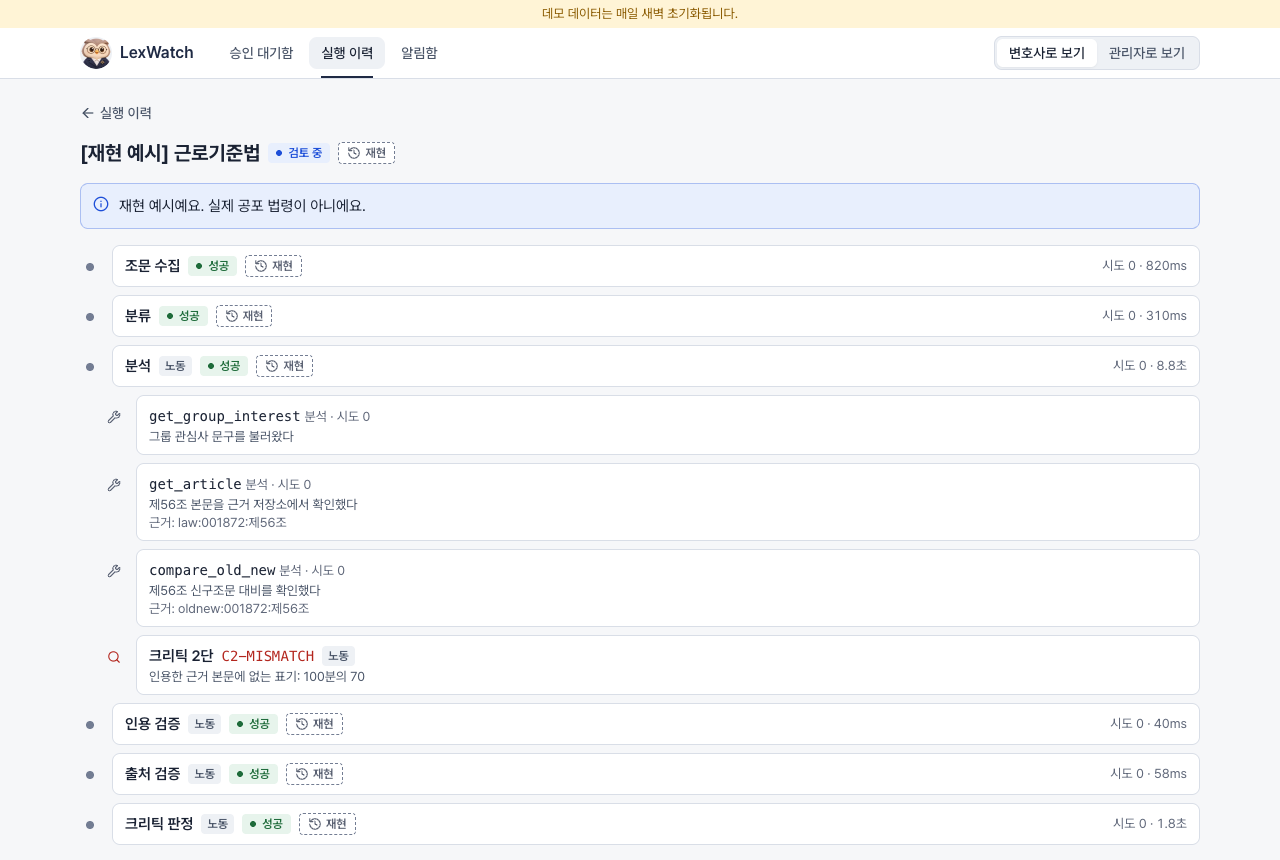
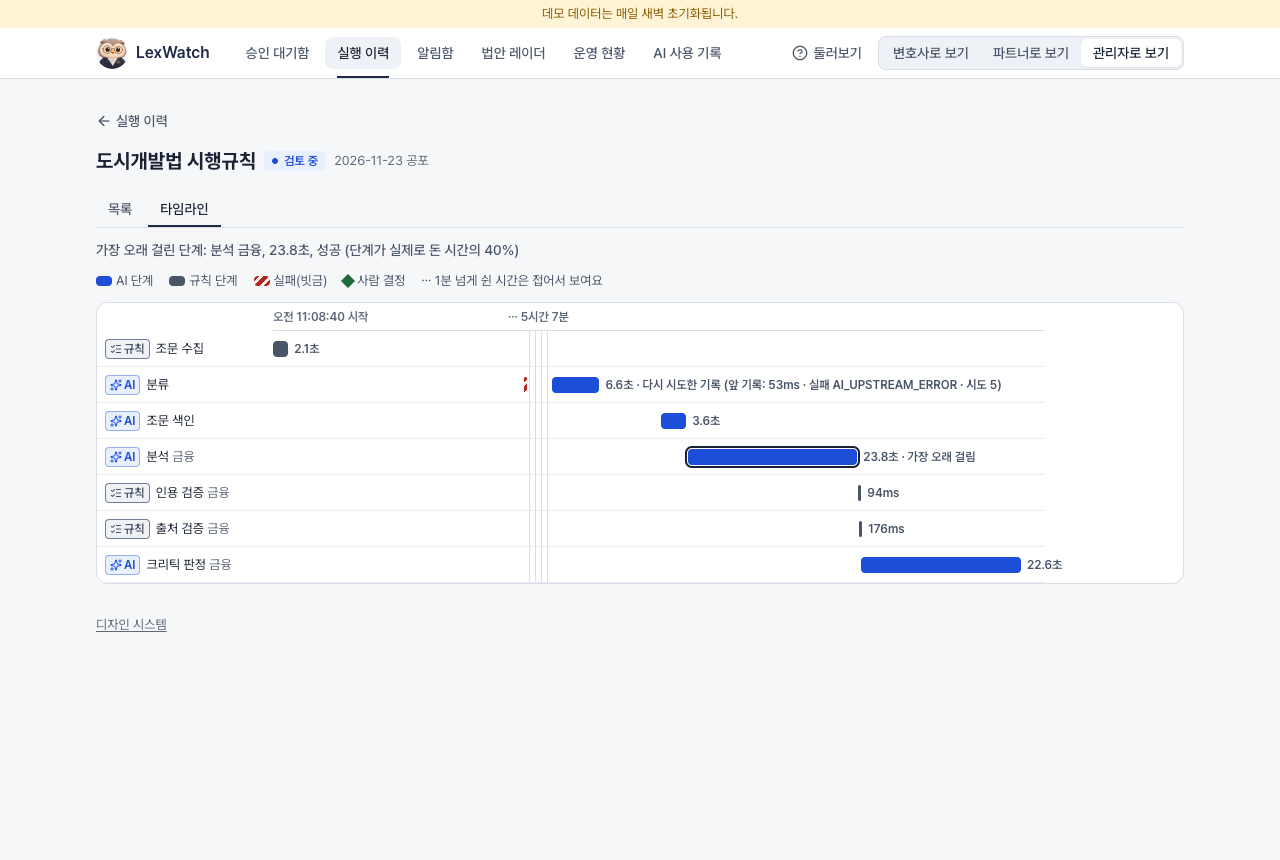
docs(readme): 새 기능에 맞춰 스크린샷과 가이드, 운영 표, 테스트 수치를 고친다
- 스크린샷 7장을 지금 화면으로 다시 찍고 AI 라벨, 법안 레이더, 운영 현황, AI 사용 기록 4장을 더한다
- 3분 가이드에 과정 띠와 AI 라벨, 타임라인 탭, 운영 현황을 넣는다
- collect 워크플로의 bills 작업, 인프라 외부 API(국회, Cloudflare, Groq)를 적는다
- 테스트 수치를 CI 기준으로 고친다(AI 122, 화면 192, .NET 305)
- 하지 않은 것에 시행일 캘린더, AI 표시 확대, 호출 단위 기록을 적는다

Claude-Session: https://claude.ai/code/session_01KDP3o71hzzuWY83vaoXenw

diff --git a/README.md b/README.md
@@ -42,7 +42,7 @@ https://github.com/user-attachments/assets/b656d181-8d5b-4829-a8c5-12dff8b6b316
 1. 매일 07:00에 국가법령정보센터에서 공포된 개정을 가져와 노동, 개인정보, 금융 그룹별로 나눕니다.
 2. 법제처가 표시한 변경 부분을 그대로 받아 신구조문에서 바뀐 글자만 강조합니다.
 3. 초안의 모든 문장은 근거를 인용하고, 인용을 누르면 근거 원문이 바로 뜹니다. 크리틱 3단이 인용, 숫자와 날짜, 과잉해석을 검사해 걸린 문장에 사유를 붙입니다.
-4. 각 단계를 NVIDIA 모델이 처리했는지, 대체 구현이 처리했는지, 녹화한 데모인지 라벨로 숨김없이 보여 줍니다.
+4. 각 단계를 NVIDIA 모델이 처리했는지, 대체 구현이 처리했는지, 녹화한 데모인지 라벨로 숨김없이 보여 줍니다. 초안마다 어느 단계가 AI이고 어느 단계가 규칙과 사람인지 과정 띠로 보입니다.
 5. 승인 전에는 어느 그룹으로 안내가 나가는지 한 번 더 확인합니다.
 
 <br>
@@ -73,13 +73,19 @@ LexWatch는 사건을 처리하는 본업이 아니라 **법령 개정을 지켜
 | 승인 대기함 | 초안 상세 |
 | :---: | :---: |
 | ![승인 대기함](docs/screenshots/01-approval-queue.png) | ![초안 상세](docs/screenshots/02-draft-detail.png) |
-| 실무그룹별 초안을 모아 크리틱 적발이 있는 초안을 먼저 보여 줍니다. 신뢰도는 숫자와 막대로 봅니다. | 신구조문 대조와 문장별 근거가 달린 초안, 크리틱 사유, 검토 보조 채팅이 한 화면에 있습니다. |
-| **근거 바로 보기** | **승인 확인** |
-| ![인용 근거 팝오버](docs/screenshots/05-citation-popover.png) | ![승인 확인 대화상자](docs/screenshots/06-approve-dialog.png) |
-| 인용 칩을 누르면 근거 제목과 본문 앞부분, 원문 링크가 뜹니다. 근거가 없는 인용은 경고 모양이 됩니다. | 승인과 수정 후 승인은 어느 그룹 알림함으로 발송되는지 확인한 뒤에 진행됩니다. |
-| **실행 이력** | **알림함** |
-| ![실행 타임라인](docs/screenshots/03-run-timeline.png) | ![알림함](docs/screenshots/04-demo-inbox.png) |
-| 단계별 시간, 시도 횟수, 에이전트 도구 호출, 크리틱 판정, 승인 기록이 시간순으로 이어집니다. 관리자는 실패한 단계를 다시 실행합니다. | 승인된 그룹의 안내문이 도착합니다. 외부로 나가는 실제 발송은 없습니다. |
+| 실무그룹별 초안을 모아 크리틱 적발이 있는 초안을 먼저 보여 줍니다. 그룹 관련성은 숫자와 막대로 봅니다. | 맨 위에 "이 초안이 만들어진 과정"을 AI, 규칙, 사람으로 나눠 보이고, 문장마다 근거와 크리틱 사유가 붙습니다. |
+| **근거 바로 보기** | **AI 라벨** |
+| ![인용 근거 팝오버](docs/screenshots/05-citation-popover.png) | ![AI 라벨 설명](docs/screenshots/08-ai-label.png) |
+| 인용 칩을 누르면 근거 제목과 본문 앞부분, 원문 링크가 뜹니다. 근거가 없는 인용은 경고 모양이 됩니다. | AI가 만든 초안, 판정, 답변에 붙은 라벨을 누르면 쓴 모델, AI에 보낸 근거 수, 한계가 뜹니다. |
+| **승인 확인** | **알림함** |
+| ![승인 확인 대화상자](docs/screenshots/06-approve-dialog.png) | ![알림함](docs/screenshots/04-demo-inbox.png) |
+| 승인과 수정 후 승인은 어느 그룹 알림함으로 발송되는지 확인한 뒤에 진행됩니다. | 승인된 그룹의 안내문이 도착합니다. 외부로 나가는 실제 발송은 없습니다. |
+| **실행 타임라인** | **운영 현황** |
+| ![실행 타임라인](docs/screenshots/03-run-timeline.png) | ![운영 현황](docs/screenshots/10-ops.png) |
+| 단계마다 시작 시각과 소요 시간을 막대로 그립니다. 실패와 오류 코드, 다시 시도한 기록, 가장 오래 걸린 단계가 보이고, 몇 시간 쉰 구간은 접습니다. | 관리자는 실행 수, 다시 시도한 끝의 단계 실패율, AI 공급자 비율, 적발 있는 초안 비율, 결정 대기를 한 화면에서 봅니다. |
+| **법안 레이더** | **AI 사용 기록** |
+| ![법안 레이더](docs/screenshots/09-bill-radar.png) | ![AI 사용 기록](docs/screenshots/11-ai-usage.png) |
+| 실무그룹이 지켜보는 법률의 국회 발의 개정안이 접수부터 의결까지 어디에 있는지 보입니다. | 검토 보조 요청마다 결과, 모델, 소요 시간, 가린 민감정보 종류와 건수만 남깁니다. 질문과 답변은 남기지 않습니다. |
 
 ### 3분 사용 가이드
 
@@ -88,11 +94,12 @@ LexWatch는 사건을 처리하는 본업이 아니라 **법령 개정을 지켜
 로그인 없이 오른쪽 위에서 "변호사로 보기", "파트너로 보기", "관리자로 보기"를 고릅니다. 데모 데이터는 매일 04:00에 초기화되며, 재현 예시와 채팅 할당량만 다시 만들고 실제 수집 결과는 그대로 둡니다.
 
 1. **승인 대기함**: `재현` 라벨이 붙은 항목은 녹화를 다시 재생한 예시이고 법령 이름 앞에 `[재현 예시]`가 붙습니다.
-2. **초안 상세**: 노동 그룹 예시에 숫자 불일치(크리틱 2단) 적발 사례가 있습니다. 검토 보조에 근거에 관해 물으면 근거 안에서만 답하고, 근거 밖 질문은 거절합니다.
-3. **실행 이력**: 실행 하나를 열면 단계마다 출처 라벨이 있습니다.
+2. **초안 상세**: 맨 위 "이 초안이 만들어진 과정"에서 어느 단계가 AI이고 어느 단계가 규칙인지 봅니다. "AI 초안", "AI 판정" 라벨을 누르면 쓴 모델과 한계가 뜹니다. 검토 보조에 근거에 관해 물으면 근거 안에서만 답하고, 근거 밖 질문은 거절합니다.
+3. **실행 이력**: 실행 하나를 열면 단계마다 출처 라벨이 있고, "타임라인" 탭에서 단계별 소요 시간과 실패, 다시 시도한 기록을 막대로 봅니다.
 4. **알림함**: 변호사로 승인하면 해당 그룹의 안내문이 생깁니다. 노동 그룹 예시처럼 적발을 확인하고 승인한 초안은 "파트너로 보기"에서 최종 승인해야 안내문이 생깁니다.
 5. **법안 레이더**: 노동, 개인정보, 금융 그룹이 지켜보는 법률의 국회 발의 개정안이 접수부터 의결까지 어디에 있는지 보입니다. 공포되면 승인 대기함의 검토로 이어집니다.
-6. **AI 사용 기록**: 검토 보조에 `한빛전자 대표 900101-1234567`처럼 물으면 AI로 보내기 전에 가려지고, "관리자로 보기"의 AI 사용 기록에 가린 종류와 건수만 남습니다.
+6. **운영 현황**: "관리자로 보기"에서 최근 7, 14, 30일의 실행 수, 단계 실패율, AI 공급자 비율, 결정 대기를 봅니다.
+7. **AI 사용 기록**: 검토 보조에 `한빛전자 대표 900101-1234567`처럼 물으면 AI로 보내기 전에 가려지고, "관리자로 보기"의 AI 사용 기록에 가린 종류와 건수만 남습니다.
 
 <br>
 
@@ -184,7 +191,7 @@ LexWatch는 사건을 처리하는 본업이 아니라 **법령 개정을 지켜
 | AI 서비스 (`lexwatch-ai`) | Render free, Singapore, Docker | 분류, 영향 분석 에이전트, 크리틱 3단, 검토 보조 |
 | API (`lexwatch-api`) | Render free, Singapore, Docker | Workflow 엔진, 크리틱 1단과 2단, 승인과 알림 |
 | DB | Supabase PostgreSQL + pgvector, ap-southeast-1 | 세션 풀러로 연결 |
-| 외부 | 국가법령정보센터 Open API, NVIDIA NIM | 법령 수집, 모델 호출 |
+| 외부 | 국가법령정보센터 Open API, 국회 열린국회정보 API, NVIDIA NIM, Cloudflare Workers AI, Groq | 법령 수집, 국회 발의 법안 수집, 모델 호출(앞 공급자가 실패하면 다음으로) |
 
 <br>
 
@@ -202,7 +209,7 @@ LexWatch는 사건을 처리하는 본업이 아니라 **법령 개정을 지켜
 | 워크플로 | 시점 | 하는 일 |
 | --- | --- | --- |
 | `ci` | push, PR | 위 다섯 검사. `main` push에서 모두 통과하면 API 배포와 확인 |
-| `collect` | 매일 07:00 KST 예약(GitHub 예약 실행은 몇 시간 늦게 시작되기도 함) | 잠든 API와 AI 서비스를 깨우고(`POST /jobs/wake-ai`) `POST /jobs/collect`로 법령 수집. 수집이 만든 실행이 끝날 때까지 감시하고, 실패하거나 15분 안에 끝나지 않으면 잡을 실패로 끝낸다 |
+| `collect` | 매일 07:00 KST 예약(GitHub 예약 실행은 몇 시간 늦게 시작되기도 함) | 두 작업이 따로 돈다. `collect` 작업은 잠든 API와 AI 서비스를 깨우고(`POST /jobs/wake-ai`) `POST /jobs/collect`로 법령을 수집한 뒤, 수집이 만든 실행이 끝날 때까지 감시하고 실패하거나 15분 안에 끝나지 않으면 잡을 실패로 끝낸다. `bills` 작업은 `POST /jobs/collect-bills`로 국회 발의 법안을 모은다(서버 120초 상한, 다시 시도하지 않음) |
 | `reset-demo` | 매일 04:00 KST | `POST /jobs/reset-demo`로 재현 예시와 채팅 할당량 재생성 |
 
 토큰 교체, 시크릿 준비, 수동 배포 절차는 [배포 런북](docs/deploy.md)에 있습니다.
@@ -238,6 +245,8 @@ LexWatch는 사건을 처리하는 본업이 아니라 **법령 개정을 지켜
 
 - **실행 타임라인**: 실행 상세의 "타임라인" 탭은 단계마다 시작 시각과 소요 시간으로 가로 막대를 그립니다(Temporal 타임라인, Langfuse 워터폴 참고). AI 단계와 규칙 단계를 색과 배지로 나누고, 실패는 빗금과 오류 코드로, 재시도는 "시도 N"으로 보입니다. 1분 넘게 쉰 구간은 접어서 몇 시간 뒤의 다시 실행도 한 화면에 들어옵니다.
 - **운영 현황**(관리자): 최근 7, 14, 30일의 실행 수, 다시 시도한 끝의 단계 최종 실패율, 최종 공급자 기준 AI 처리와 규칙 대체, 적발 있는 초안 비율, 결정 대기를 한 화면에 둡니다. 표본이 작은 데모 데이터라 모든 비율과 소요 시간 옆에 분모와 표본 수를 적습니다.
+
+<br>
 
 ## 🔍 크리틱 3단과 평가
 
@@ -348,10 +357,10 @@ docker compose up --build          # 데이터 볼륨까지 지우려면 docker 
 ### 테스트
 
 ```bash
-cd ai && uv run pytest                      # AI 서비스 77건
-cd web && pnpm test                         # 화면 128건(토큰 대비, 라벨, 신구 대조, 둘러보기 안내 포함)
+cd ai && uv run pytest                      # AI 서비스 122건
+cd web && pnpm test                         # 화면 192건(토큰 대비, 라벨, 신구 대조, 과정 띠, 타임라인 배치, 운영 현황 포함)
 export DOTNET_ROOT=$HOME/.dotnet PATH=$HOME/.dotnet:$PATH
-make test-backend                           # .NET 143건, Testcontainers라 Docker 필요
+make test-backend                           # .NET 305건, Testcontainers라 Docker 필요
 make eval-critic                            # 크리틱 평가, 결과를 eval/results에 저장
 ```
 
@@ -374,6 +383,9 @@ lexwatch/
 
 - 입법예고 수집: 국민참여입법센터 API는 이용 승인이 필요해 아직 붙이지 않았습니다. 법안 레이더의 데이터 모델은 출처를 나눠 두어 승인 뒤 같은 화면에 붙일 수 있습니다. 본문이 첨부 파일(HWP, PDF)이라 근거 대조는 하지 않습니다.
 - 정부 제출 법률안과 공포 전 법안의 AI 요약: 하지 않았습니다.
+- 시행일 캘린더: 승인한 개정의 시행일을 그룹별 달력으로 보이고 Outlook 캘린더(.ics)로 내보내는 기능을 조사만 했습니다(Ogletree Deakins Compliance Calendar 참고).
+- AI 표시 확대: 나가는 알림 본문에 "AI 초안, 변호사 검토 승인"을 적는 일(인공지능기본법의 결과물 표시)과 문장 단위로 AI 작성과 변호사 수정을 나누는 일은 하지 않았습니다.
+- AI 호출 단위 기록: 운영 현황의 AI 처리는 단계 기록의 최종 공급자 기준이라, 대체 경로에서 실패한 앞선 시도와 에이전트 안의 여러 호출은 세지 않습니다.
 - 사내 NIM 실배포: 문서만 있고 실행하지 않았습니다.
 - OpenShell로 에이전트의 아웃바운드를 제한하는 구성: 하지 않았습니다.
 - OC-05 패턴 규칙 보강: 과태료 단계가 바뀐 개정에서 개정 전 금액 인용을 잡도록 항 번호까지 대조할 예정입니다.
